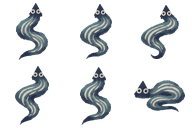
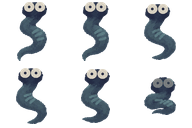
examples: distinguish the tidecaller and swarmer on the marsh

diff --git a/examples/lantern-reach/csharp/Crowd.cs b/examples/lantern-reach/csharp/Crowd.cs
@@ -9,17 +9,32 @@ public partial class Crowd : Node2D {
     private List<int> counts = new List<int>();
     private List<int> cursors = new List<int>();
 
+    private Texture2D ring;
+    private Rect2 ringFrame;
+    private readonly List<Vector2> origins = new();
+    private readonly List<int> started = new();
+    private Simulation world;
     private readonly List<int> struck = new();
     private int tick = -10;
     private Subscription listener;
 
     private void receive(WorldEvent item) {
+        if (item.kind == WorldEvent.TIDE_CALL) {
+            Creature caller = world.pool.slots[item.value];
+            if (!caller.active || caller.kind != Creature.TIDECALLER) return;
+            origins.Add(new Vector2((float)(caller.x * 15), (float)(caller.y * 13)));
+            started.Add(world.tick);
+        }
         if (item.kind == WorldEvent.DAMAGE) struck[item.cell] = tick + 5;
     }
 
     public void close(EventBus bus) { bus.remove(listener); }
 
     public void setup(Simulation game) {
+        world = game;
+        ring = ResourceLoader.Load("res://assets/art/effects.png") as Texture2D;
+        int cell = ring.GetWidth() / 3;
+        ringFrame = new Rect2(0, cell, cell, cell);
         for (int i = 0; i < game.grid.walls.Count; i++) struck.Add(-1);
         listener = game.events.listen(receive);
         Rules rules = game.rules;
@@ -45,8 +60,24 @@ public partial class Crowd : Node2D {
         }
     }
 
+    private void paintCalls() {
+        RenderingServer.CanvasItemClear(GetCanvasItem());
+        for (int i = started.Count - 1; i >= 0; i--) {
+            double phase = (tick - started[i]) / 90.0;
+            if (phase >= 1 || phase < 0) {
+                started.RemoveAt(i);
+                origins.RemoveAt(i);
+                continue;
+            }
+            float radius = (float)(8 + 23 * phase);
+            Rect2 dest = new Rect2(origins[i].X - radius, origins[i].Y - radius, 2 * radius, 2 * radius);
+            RenderingServer.CanvasItemAddTextureRectRegion(GetCanvasItem(), dest, ring.GetRid(), ringFrame, new Color(1, 1, 1, (float)(0.8 * (1 - phase))));
+        }
+    }
+
     public void present(Simulation game) {
         tick = game.tick;
+        if (started.Count > 0) paintCalls();
         for (int n = 0; n < batches.Count; n++) {
             counts[n] = 0;
             cursors[n] = 0;

diff --git a/examples/lantern-reach/tests/csharp/SystemCases.cs b/examples/lantern-reach/tests/csharp/SystemCases.cs
@@ -22,7 +22,7 @@ public sealed class SystemCases {
             occlusionHidesLurkers,
             rigPaysAndSaleRefundsHalf,
             eventsAndRemoval,
-            listenerCanPostFollowup, bossTelegraphsBeforeFlood,
+            listenerCanPostFollowup, tidecallerSignalsItsBuff, bossTelegraphsBeforeFlood,
             splitAtMostThreeGenerations,
             shoreSalvageSurvivesRestore, lastBeaconEndsWatch };
         foreach (var test in cases) {
@@ -166,6 +166,23 @@ public sealed class SystemCases {
         game.events.dispatch();
         game.events.dispatch();
         Require(game.stats.destroyed == 1);
+        game.events.remove(listener);
+    }
+
+    private void tidecallerSignalsItsBuff() {
+        Creature ally = game.spawn.place(Creature.SWARMER, 12, 4, 0);
+        Creature caller = game.spawn.place(Creature.TIDECALLER, 12, 4, 0);
+        caller.cooldown = 2;
+        List<int> calls = new();
+        var listener = game.events.listen(item => {
+            if (item.kind == WorldEvent.TIDE_CALL) calls.Add(item.value);
+        });
+        game.step();
+        Require(calls.Count == 0 && ally.buff == 0);
+        game.step();
+        Require(calls.Count == 1 && calls[0] == caller.id && ally.buff > 0);
+        game.step();
+        Require(calls.Count == 1);
         game.events.remove(listener);
     }
 

diff --git a/examples/lantern-reach/tools/art_proofs.py b/examples/lantern-reach/tools/art_proofs.py
@@ -23,13 +23,15 @@ def atlas(name):
     return Image.open(ART / (name + ".png")).convert("RGBA")
 
 
-def stamp(scene, name, index, x, y, width, height=None, silhouette=False):
+def stamp(scene, name, index, x, y, width, height=None, silhouette=False, opacity=1.0):
     sheet = atlas(name)
     columns = SHEETS[name]["columns"]
     w, h = sheet.width // columns, sheet.height // SHEETS[name]["rows"]
     u, v = index % columns * w, index // columns * h
     size = (width, height or width)
     frame = sheet.crop((u, v, u + w, v + h)).resize(size, Image.Resampling.BILINEAR)
+    if opacity != 1:
+        frame.putalpha(frame.getchannel("A").point(lambda a: round(a * opacity)))
     if silhouette:
         alpha = frame.getchannel("A").point(lambda a: 255 if a >= 128 else 0)
         frame = Image.new("RGBA", size, "black")
@@ -39,6 +41,9 @@ def stamp(scene, name, index, x, y, width, height=None, silhouette=False):
 
 def creature(scene, name, x, y, silhouette=False):
     size = SIZES[name]
+    if name == "tidecaller" and not silhouette:
+        # Midway through the 90-tick call, below the caller and the fog.
+        stamp(scene, "effects", 3, x, y, 39, opacity=0.4)
     stamp(scene, name, 0, x, y, size, silhouette=silhouette)
     if name == "undertow":
         for j in range(1, 7):

diff --git a/examples/lantern-reach/csharp/sim/EnemySenses.cs b/examples/lantern-reach/csharp/sim/EnemySenses.cs
@@ -11,10 +11,11 @@ public sealed class EnemySenses {
     public SpawnSystem spawn;
     public Rules rules;
     public Keeper player;
+    public EventBus events;
     public List<Creature> near = new List<Creature>();
 
     public EnemySenses(TownGrid map, Buildings buildings, SpatialIndex index, LightField lights,
-            SpawnSystem spawner, Rules defs, Keeper keeper) {
+            SpawnSystem spawner, Rules defs, Keeper keeper, EventBus bus) {
         grid = map;
         town = buildings;
         space = index;
@@ -22,6 +23,7 @@ public sealed class EnemySenses {
         spawn = spawner;
         rules = defs;
         player = keeper;
+        events = bus;
     }
 
     public double distance(Creature actor, int cell) {

diff --git a/examples/lantern-reach/csharp/sim/Simulation.cs b/examples/lantern-reach/csharp/sim/Simulation.cs
@@ -41,7 +41,7 @@ public sealed class Simulation {
         town = new Buildings(grid, rules, keeper, flow, events);
         light = new LightField(grid, town, pool, rules);
         spawn = new SpawnSystem(grid, pool, random, rules, events);
-        EnemySenses senses = new EnemySenses(grid, town, index, light, spawn, rules, keeper);
+        EnemySenses senses = new EnemySenses(grid, town, index, light, spawn, rules, keeper, events);
         ai = new SwarmSteering(grid, pool, index, flow, senses);
         movement = new Movement(grid, pool);
         LevelUps levels = new LevelUps(keeper, rules, random, events);

diff --git a/examples/lantern-reach/csharp/sim/CallTide.cs b/examples/lantern-reach/csharp/sim/CallTide.cs
@@ -10,5 +10,6 @@ public sealed class CallTide : IEnemyState {
         senses.space.nearby(actor.x, actor.y, 4, senses.near);
         foreach (Creature ally in senses.near) ally.buff = 90;
         senses.spawn.place(Creature.SWARMER, actor.x, actor.y, 0);
+        senses.events.post(WorldEvent.TIDE_CALL, senses.grid.cell(actor.x, actor.y), actor.id);
     }
 }

diff --git a/examples/lantern-reach/csharp/sim/WorldEvent.cs b/examples/lantern-reach/csharp/sim/WorldEvent.cs
@@ -27,4 +27,5 @@ public sealed class WorldEvent {
 
     public const int DAWN = 11;
     public const int LOST_WATCH = 12;
+    public const int TIDE_CALL = 13;
 }
